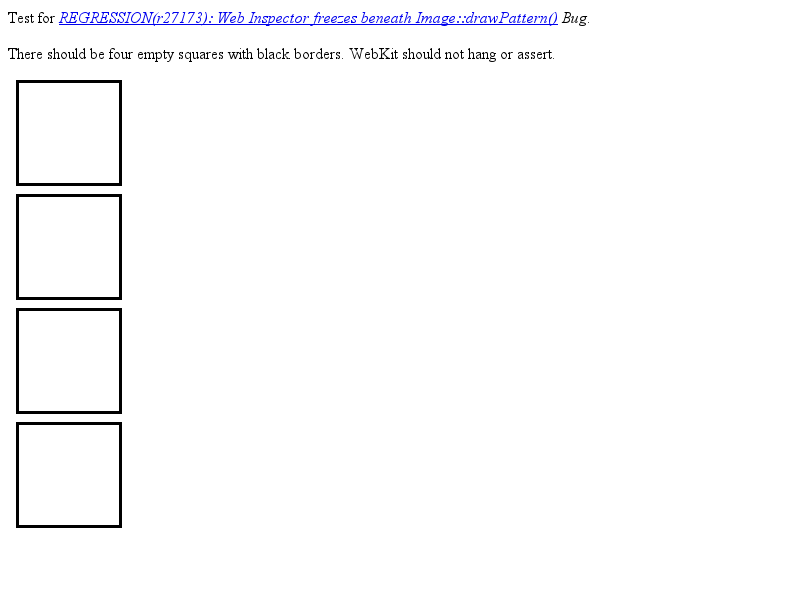
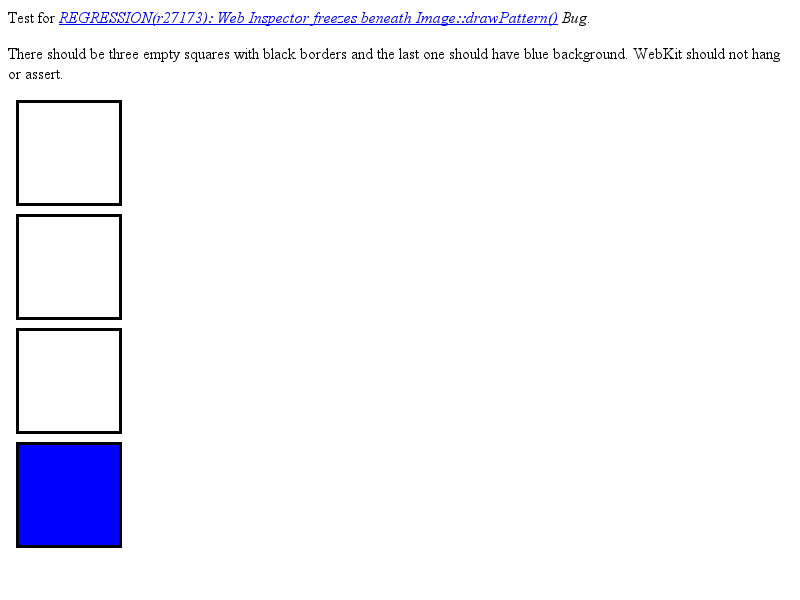
Background image should clamp to minimum size(1, 1) after scale.
While one of the values of background-size is auto we have to use the
appropriate scale to maintain our aspect ratio. In this step we might
end up getting new image width or height as zero. In this case we should
clamp to minimum value as 1.

BUG=424048

Review URL: https://codereview.chromium.org/659913003

git-svn-id: svn://svn.chromium.org/blink/trunk@185238 bbb929c8-8fbe-4397-9dbb-9b2b20218538

diff --git a/LayoutTests/fast/backgrounds/size/zero.html b/LayoutTests/fast/backgrounds/size/zero.html
@@ -5,7 +5,7 @@
     Test for <i><a href="http://bugs.webkit.org/show_bug.cgi?id=15750">REGRESSION(r27173): Web Inspector freezes beneath Image::drawPattern()</a> Bug</i>.
 </p>
 <p>
-    There should be four empty squares with black borders. WebKit should not hang or assert.
+    There should be three empty squares with black borders and the last one should have blue background. WebKit should not hang or assert.
 </p>
 <div style="background-size: 0 0;"></div>
 <div style="background-size: 0 32px;"></div>

diff --git a/LayoutTests/fast/backgrounds/background-img-repeat.html b/LayoutTests/fast/backgrounds/background-img-repeat.html
@@ -1,0 +1,14 @@
+<!DOCTYPE html>
+<html>
+<head>
+<style>
+    div {
+        background: url('resources/bgimg1x50.png') repeat-x left top;
+        background-size: auto 100%;
+    }
+</style>
+</head>
+<body>
+    <div>This text should have green background.<div>
+</body>
+</html>

diff --git a/LayoutTests/fast/backgrounds/background-img-repeat-expected.html b/LayoutTests/fast/backgrounds/background-img-repeat-expected.html
@@ -1,0 +1,13 @@
+<!DOCTYPE html>
+<html>
+<head>
+<style>
+    div {
+        background: green;
+    }
+</style>
+</head>
+<body>
+    <div>This text should have green background.<div>
+</body>
+</html>

diff --git a/Source/core/paint/BoxPainter.cpp b/Source/core/paint/BoxPainter.cpp
@@ -830,11 +830,19 @@ IntSize BoxPainter::calculateFillTileSize(const RenderBoxModelObject& obj, const
         // If one of the values is auto we have to use the appropriate
         // scale to maintain our aspect ratio.
         if (layerWidth.isAuto() && !layerHeight.isAuto()) {
-            if (imageIntrinsicSize.height())
-                tileSize.setWidth(imageIntrinsicSize.width() * tileSize.height() / imageIntrinsicSize.height());
+            if (imageIntrinsicSize.height()) {
+                LayoutUnit adjustedWidth = imageIntrinsicSize.width() * tileSize.height() / imageIntrinsicSize.height();
+                if (imageIntrinsicSize.width() >= 1 && adjustedWidth < 1)
+                    adjustedWidth = 1;
+                tileSize.setWidth(adjustedWidth);
+            }
         } else if (!layerWidth.isAuto() && layerHeight.isAuto()) {
-            if (imageIntrinsicSize.width())
-                tileSize.setHeight(imageIntrinsicSize.height() * tileSize.width() / imageIntrinsicSize.width());
+            if (imageIntrinsicSize.width()) {
+                LayoutUnit adjustedHeight = imageIntrinsicSize.height() * tileSize.width() / imageIntrinsicSize.width();
+                if (imageIntrinsicSize.height() >= 1 && adjustedHeight < 1)
+                    adjustedHeight = 1;
+                tileSize.setHeight(adjustedHeight);
+            }
         } else if (layerWidth.isAuto() && layerHeight.isAuto()) {
             // If both width and height are auto, use the image's intrinsic size.
             tileSize = imageIntrinsicSize;
